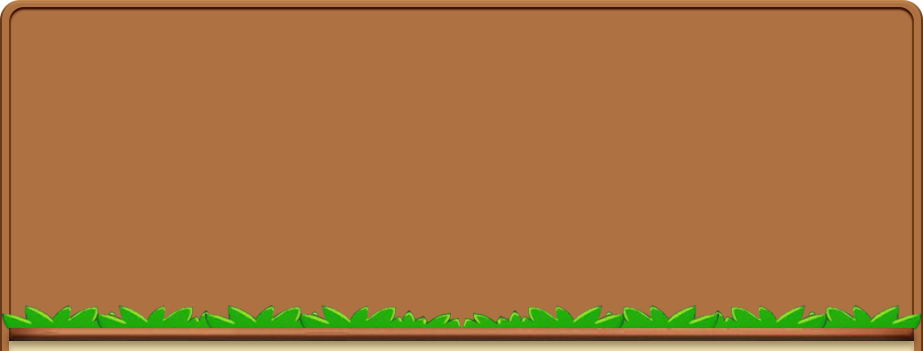
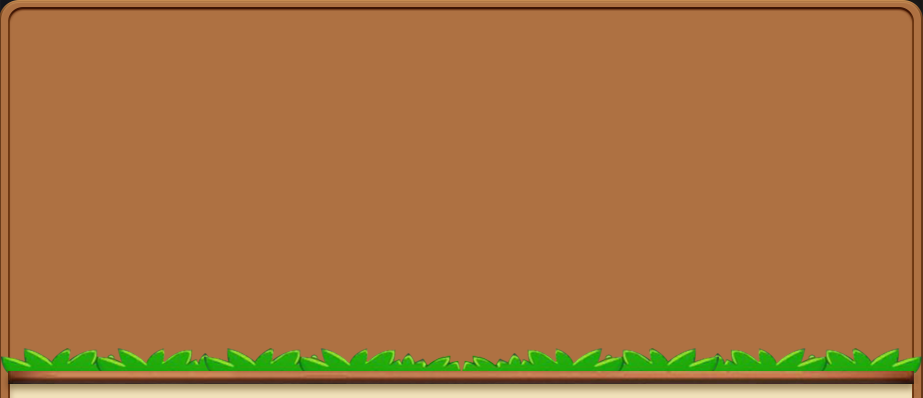
详情页顶部修改

Changed region(s): [[0.0, 0.0, 1.0, 1.0]]

diff --git a/css/data-zhiwudazhanjiangshi2-eyes.css b/css/data-zhiwudazhanjiangshi2-eyes.css
@@ -47,14 +47,15 @@ body{ background:#000; color:#fff}
 .pokedex .main .item .label{ height:0.18rem;background:url(../images/zhiwudazhanjiangshi2/eyes/btn_left.png) left top no-repeat;background-size:auto 0.18rem;font-size: 0.09rem;color:#fff;line-height: 0.18rem;display: inline-block;position: relative;top:-0.05rem;padding-left: 0.05rem}
 .pokedex .main .item .label span{ max-width:0.8rem; overflow:hidden; text-overflow:ellipsis; white-space:nowrap; padding-right: 0.05rem; display:block; height:0.18rem ;background:url(../images/zhiwudazhanjiangshi2/eyes/btn_right.png) right top no-repeat;background-size:auto 0.18rem;}
 
-.wrap{width: 3.01rem;margin: 60px auto;background:url(../images/zhiwudazhanjiangshi2/eyes/contentbg.png) center top repeat-y; background-size:100%;position: relative;padding-top: 1.2em ;padding-bottom: 0.1rem}
-.wrap .topbg{position: absolute;top:-0.1rem;left:0;width: 100%;height:1.17rem; background:url(../images/zhiwudazhanjiangshi2/eyes/topbg.png) center top no-repeat;background-size:100%;overflow: hidden;padding-top: 0.08rem}
+.wrap{width: 3rem;margin: 60px auto;background:url(../images/zhiwudazhanjiangshi2/eyes/contentbg.png) center top repeat-y; background-size:100%;position: relative;padding-top: 1.2rem ;padding-bottom: 0.1rem}
+.wrap .topbg{position: absolute;top:-0.1rem;left:0;width: 100%;height:1.3rem; background:url(../images/zhiwudazhanjiangshi2/eyes/topbg.png) center top no-repeat;background-size:100%;overflow: hidden;padding-top: 0.08rem}
 .wrap .footbg{position: absolute;bottom:-0.1rem;left:0;width: 100%;height:0.1rem; background:url(../images/zhiwudazhanjiangshi2/eyes/footbg.png) center top no-repeat;background-size:100%;}
-.wrap .topbg .name{width:0.7rem;height: 0.92rem; background:url(../images/zhiwudazhanjiangshi2/eyes/namebg.png) center top no-repeat;background-size:100%;float: left;margin: 0 0.07rem;position: relative;}
-.wrap .topbg .way{font-size: 0.12rem;color:#000;padding:0.25rem 0.1rem 0 0.18rem;box-sizing: border-box;width:2.1rem;height: 0.92rem; background:url(../images/zhiwudazhanjiangshi2/eyes/waybg.png) center top no-repeat;background-size:100%;float: left;text-align:justify }
-.wrap .topbg .name .tit{text-align: center;font-size:0.12rem;line-height:2; width:0.7rem; overflow:hidden; white-space:nowrap; text-overflow:ellipsis; }
-.wrap .topbg .name .img{width: 0.56rem;height: 0.56rem;border-radius: 10px;position: absolute;bottom:0.09rem;left:50%;margin-left: -0.28rem}
-.wrap .topbg .way .text{height:0.5rem;overflow-y:auto;color:#473013; -webkit-overflow-scrolling:touch;}
+/*.wrap .topbg .name{width:0.7rem;height: 0.92rem; background:url(../images/zhiwudazhanjiangshi2/eyes/namebg.png) center top no-repeat;background-size:100%;float: left;margin: 0 0.07rem;position: relative;}*/
+.wrap .container{padding-top: 0.1rem}
+.wrap .topbg .way{font-size: 0.1rem;color:#000;width:2.87rem;height: 1.03rem; background:url(../images/zhiwudazhanjiangshi2/eyes/waybg.png) center top no-repeat;background-size:100%;text-align:justify ;margin:0 auto;}
+.wrap .topbg .way .tit{font-size:0.12rem;text-align: center;line-height:0.22rem;color:#fff; }
+.wrap .topbg .way .img{width: 0.65rem;height: 0.65rem;border-radius: 10px;float: left;margin:0.06rem 0.15rem;}
+.wrap .topbg .way .text{height:0.68rem;overflow-y:auto;color:#473013; -webkit-overflow-scrolling:touch;float: left;margin-top: 0.06rem;width: 1.75rem;overflow-y: auto}
 .wrap .topbg .way .text .title{font-size: 0.14rem}
 .wrap .field{width:2.87rem;margin:0.02rem auto;background:url(../images/zhiwudazhanjiangshi2/eyes/sm_contentbg.png) center top repeat-y;background-size:100%;position: relative;margin-bottom: 0.3rem;font-size:0.09rem;color:#473013;padding:0.07rem 0.06rem 0.05rem;box-sizing: border-box; }
 .wrap .field .headerbg{position: absolute;top:-0.1rem;left:0;width: 100%;height:0.15rem;background:url(../images/zhiwudazhanjiangshi2/eyes/sm_topbg.png) center top no-repeat;background-size:100%; }

diff --git a/js/data-zhiwudazhanjiangshi2-eyes.js b/js/data-zhiwudazhanjiangshi2-eyes.js
@@ -51,7 +51,8 @@
 				isfind = false,
 				html_mold = '',
 				html_container = '',
-				contentArry='';
+				contentArry='',
+				html_sum = '';
 
 			for(var i=0; i<this.data_cards.length; i++){
 				for(var j=0; j<this.data_cards[i].data.length; j++){
@@ -68,8 +69,11 @@
 				return;
 			}
 
-			html_mold = '<h3 class="tit">'+data.h1+'</h3>'+
-						'<img src="'+this.o.url+'eyes_'+this.o.menu+'/'+data.id+'.png" class="img" />';
+			// html_mold = '<h3 class="tit">'+data.h1+'</h3>'+
+			// 			'<img src="'+this.o.url+'eyes_'+this.o.menu+'/'+data.id+'.png" class="img" />';
+			html_sum = '<h3 class="tit">'+data.h1+'</h3>'+
+						'<img src="'+this.o.url+'eyes_'+this.o.menu+'/'+data.id+'.png" class="img" />'+
+						'<div class="text" >'+data.sum+'</div>';
 
 			for(var i=0; i<contentArry.length; i++){
 				if(i == 0){
@@ -98,7 +102,7 @@
 			}
 				
 			$("#d_mold").html(html_mold);
-			$("#d_sum").html(data.sum);
+			$("#d_sum").html(html_sum);
 			$("#container").html(html_container);
 		},
 		printSku: function(pid){

diff --git a/data-zhiwudazhanjiangshi2-eyes-detail.html b/data-zhiwudazhanjiangshi2-eyes-detail.html
@@ -15,12 +15,11 @@
 
 <div class="wrap">
 	<div class="topbg">
-		<div class="name" id="d_mold">
+		<div class="way" id="d_sum">
+			
 			<!-- <h3 class="tit">向日葵</h3>
 			<img src="images/zhiwudazhanjiangshi2/kuihua.jpg" class="img" /> -->
-		</div>
-		<div class="way">
-			<div class="text" id="d_sum">
+			<div class="text" >
 				<!-- <p>获取途径初始奖励夫唱妇随的看电视较长的滤镜的开发繁花似锦副书记倒计时附件是打开就快烦死了发送到粉丝分开拍摄发送到粉丝
 				初始奖励夫唱妇随的看电视较长的滤镜的开发繁花似锦副书记倒计时附件是打开就快烦死了发送到粉丝分开拍摄发送到粉丝</p> -->
 			</div>
